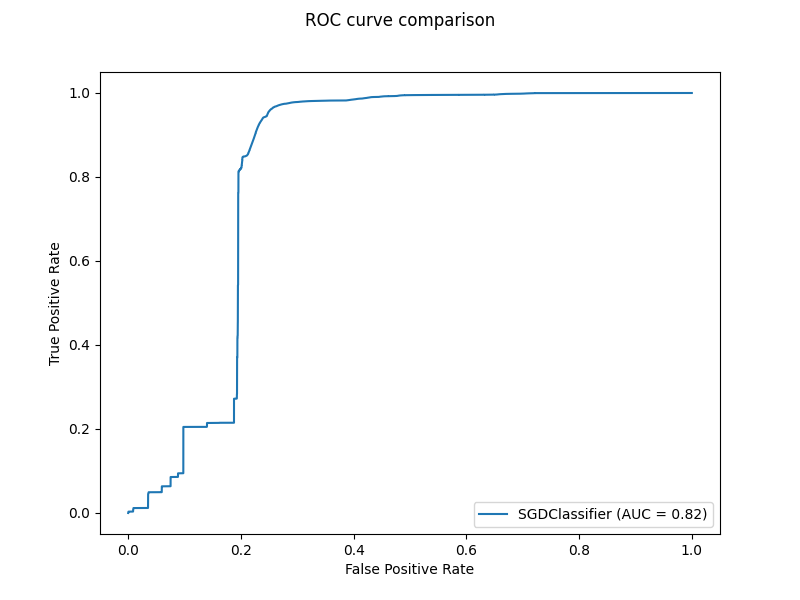
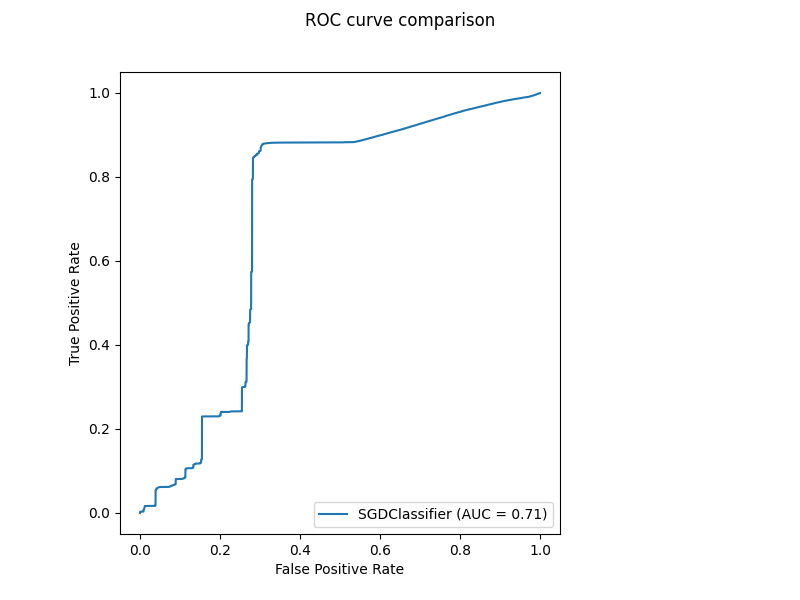
Commented other files

diff --git a/model-improvements/SGDredux.py b/model-improvements/SGDredux.py
@@ -16,10 +16,9 @@ import matplotlib.pyplot as plt
 import sqlite3 as sql
 import numpy as np
 import gc
-# Training Section:
+## Training Section:
 
-# create connection to training database. Adjust path below
-# connection = sql.connect('train.db')
+# create connection to training database. TODO Adjust path below:
 connection = sql.connect('/mnt/c/Users/mante/Downloads/train.db')
 
 # create cursor
@@ -35,6 +34,7 @@ included_columns = ['Src_ip_A', 'Src_ip_B', 'Src_ip_C', 'Src_ip_D', 'Source_Port
                     'Synack_time', 'Ack_time', 'Is_sm_ips_ports', 'Ct_state_ttl', 'Ct_http_f', 'login_ftp', 'Ct_ftp_cmd',
                     'Ct_srv_src', 'Ct_srv_dest', 'Ct_dest_ltm', 'Ct_str_ltm', 'Ct_src_dport_ltm', 'Ct_dest_sport_ltm',
                     'Ct_dest_src_ltm', 'Dest_ip_A', 'Dest_ip_B', 'Dest_ip_C', 'Dest_ip_D', 'Dest_Port']
+# Modified included_columns as per feature extraction methods - TODO: Uncomment and adjust as needed with above
 # included_columns = ['Src_ip_D', 'Source_Port', 'Protocol_feature',
 #                     'State_feature', 'Row_dur', 'src_bytes', 'dest_bytes', 'Src_ttl', 'Dest_ttl', 'Src_loss', 'Dest_loss',
 #                     'Src_bps', 'Dest_bps', 'Src_pkt_ct', 'Dst_pkt_ct', 
@@ -62,15 +62,14 @@ execute = f"SELECT Flag FROM train_1;"
 cursor.execute(execute)
 
 result_label = cursor.fetchall()
-
 print("Training label selection success")
+
 # Convert results to arrays
 # this array is a 2D array if sample number and feature, on sprint planning this is 3.d.i
 features_train = np.array(result_features, dtype='float32')
 
 # this array is a 1d array of labels, on sprint planning this is 3.d.ii
 labels_train = np.array(result_label, dtype='float32')
-
 labels_train = labels_train.flatten()
 
 print("Features and labels successfully converted to numpy arrays")
@@ -79,7 +78,7 @@ print("Features and labels successfully converted to numpy arrays")
 cursor.close()
 connection.close()
 
-# TESTING
+## TESTING Section
 
 # now reopen the connection and get features and labels for testing data
 # create connection to testing database. Adjust path below
@@ -90,134 +89,65 @@ cursor = connection.cursor()
 execute = f"SELECT {SQL_select} FROM test_1;"
 cursor.execute(execute)
 
+# get the result of that execute. this will be the 2D array with every column except flag
 result_features = cursor.fetchall()
-
 features_test = np.array(result_features, dtype='float32')
 
-
+# this array is a 1d array of labels, on sprint planning this is 3.d.ii but for testing
 execute = f"SELECT Flag FROM test_1;"
 cursor.execute(execute)
 
+# fetchall, cast to array
 result_label = cursor.fetchall()
-
-
 labels_test = np.array(result_label, dtype='float32')
-
 labels_test = labels_test.flatten()
 
-## INSERTED HERE
-# ATTEMPT 1: Variance Thresholding
+## ATTEMPT 1: Variance Thresholding
 
-# # Apply Variance Thresholding to select features
-# threshold = 0.8  # Define the threshold here
-# selector = VarianceThreshold(threshold=threshold)
-# selected_features = selector.fit_transform(features_train)
-# print(selected_features.shape)
+## Apply Variance Thresholding to select features - TODO: Comment lines 108-126 to run others
+threshold = 0.3  # Define the threshold here
+selector = VarianceThreshold(threshold=threshold)
+selected_features = selector.fit_transform(features_train)
+print(selected_features.shape)
 
-# # Creates a boolean mask of selected features
-# selected_mask = selector.get_support()
+# Creates a boolean mask of selected features
+selected_mask = selector.get_support()
 
-# # Filter original column names based on the mask
-# selected_column_names = [col_name for idx, col_name in enumerate(included_columns) if selected_mask[idx]]
+# Filter original column names based on the mask
+selected_column_names = [col_name for idx, col_name in enumerate(included_columns) if selected_mask[idx]]
 
-# # Print out the selected column names
-# print("Selected features (column names):")
-# for col_name in selected_column_names:
-#     print(col_name)
+# Print out the selected column names
+print("Selected features (column names):")
+for col_name in selected_column_names:
+    print(col_name)
 
-# # # Apply the selected features to your data
-# selected_features_train = selector.transform(features_train)
-# selected_features_test = selector.transform(features_test)
+# # Apply the selected features to your data
+selected_features_train = selector.transform(features_train)
+selected_features_test = selector.transform(features_test)
 
-# ATTEMPT 2: Information Gain
+## ATTEMPT 2: Information Gain - uncomment to run - TODO: Uncomment lines 128-132 to run attempt 2 (comment lines 108-126)
 # importances = mutual_info_classif(features_train, labels_train)
 # feat_importances = pd.Series(importances, included_columns[0:len(included_columns)])
 # feat_importances.plot(kind='barh', color='blue')
 # plt.show()
 
-# ATTEMPT 3: Exhaustive Feature Selection
-efs = EFS(SGDClassifier(shuffle = False, max_iter = 1000000), min_features = 1, max_features = 53, scoring = 'roc_auc', print_progress = True, cv = 2)
-efs.fit(features_train, labels_train.ravel())
+## ATTEMPT 3: Exhaustive Feature Selection - TODO uncomment lines 134-EOF to see logic (WARNING: Do not run- takes too long)
+# print("Exhaustive Feature Selection commencing...")
+# efs = EFS(SGDClassifier(shuffle = False, max_iter = 1000000000), min_features = 1, max_features = 53, scoring = 'roc_auc', print_progress = True, cv = 2)
+# efs.fit(features_train, labels_train.ravel())
 
-print('Best roc_auc: %.2f' % efs.best_score_)
-print('Best subset (indices):', efs.best_idx_)
-print('Best subset (corresponding names):', efs.best_feature_names_)
-print('Mask for features selected:', efs.best_mask_)
-print('Total number of features:', efs.n_features_in_)
-print('Total number of subsets:', efs.total_features_)
-print('Total number of features in subsets:', efs.subset_dim_)
-print('Total number of subsets that were checked:', efs.total_feature_names_)
-print('Total number of features that were checked:', efs.total_feature_names_)
-print('Total time taken to perform exhaustive search:', efs.total_time_)
-print('Total time taken to perform exhaustive search (formatted):', efs.total_time_formatted_)
-print('Total time taken to perform exhaustive search (seconds):', efs.total_time_secs_)
-print('Total time taken to perform exhaustive search (minutes):', efs.total_time_mins_)
-
-
-
-
-# # uncomment (now 160) - end to train and predict
-# # classifier object
-# clf = SGDClassifier(shuffle = False, max_iter = 1000000) # adjusting shuffle parameter
-
-# # print(features_train[0,:])
-# # print(labels_train)
-
-
-# # Train the data
-# print("Training...")
-# clf.fit(features_train, labels_train.ravel()) 
-# print("Training success")
-
-# # Debug statements
-# # print(features_train.dtype)
-# # print(features_test.dtype)
-
-# print("\n")
-# # make predictions
-# labels_pred = clf.predict(features_test)
-
-# # make confusion matrix
-# print("Confusion matrix: ")
-# print(confusion_matrix(labels_test, labels_pred))
-
-# # classification report
-# cr = classification_report(labels_test, labels_pred)
-# print("Classification report: ")
-# print(cr)
-
-# clf_roc = RocCurveDisplay.from_estimator(clf, features_test, labels_test)
-# clf_roc.plot()
-# clf_roc.figure_.suptitle("ROC curve comparison")
-# # clf_roc.figure_.subplots_adjust(left=0.15, right=0.7)
-# clf_roc.figure_.set_size_inches(8, 6)
-# clf_roc.ax_.set_xlabel("False Positive Rate")
-# clf_roc.ax_.set_ylabel("True Positive Rate")
-# clf_roc.ax_.legend(loc="lower right")
-# clf_roc.figure_.savefig("ROC_curve_comparison.png")
-# print("ROC curve saved to ROC_curve_comparison.png")
-
-# # # DEBUG labels_pred
-
-# # Debug statements
-# # print(labels_pred.shape)
-# # print(labels_test.shape)
-
-# # # get accuracy
-# accuracy = clf.score(features_test, labels_test)
-# accuracy_pct = round((accuracy * 100), 4)
-# # # # get histogram of predictions
-# # print("Histogram of predictions: ")
-# # np.histogram(labels_pred)
-# # # View the histogram
-# # plt.show()
-
-# # false positive rate
-# # print("False positive rate: ", end="")
-# # run 10 epochs ??
-# # for i in range(10):
-# #     clf.partial_fit(features_train, labels_train, classes=np.unique(labels_train))
-
-# # # print the accuracy
-# print(f"Predicted malicious packets with {accuracy_pct}% accuracy")
-
+# print('Best roc_auc: %.2f' % efs.best_score_)
+# print('Best subset (indices):', efs.best_idx_)
+# print('Best subset (corresponding names):', efs.best_feature_names_)
+# print('Mask for features selected:', efs.best_mask_)
+# print('Total number of features:', efs.n_features_in_)
+# print('Total number of subsets:', efs.total_features_)
+# print('Total number of features in subsets:', efs.subset_dim_)
+# print('Total number of subsets that were checked:', efs.total_feature_names_)
+# print('Total number of features that were checked:', efs.total_feature_names_)
+# print('Total time taken to perform exhaustive search:', efs.total_time_)
+# print('Total time taken to perform exhaustive search (formatted):', efs.total_time_formatted_)
+# print('Total time taken to perform exhaustive search (seconds):', efs.total_time_secs_)
+# print('Total time taken to perform exhaustive search (minutes):', efs.total_time_mins_)
+# print('Total time taken to perform exhaustive search (hours):', efs.total_time_hours_)
+# print('Total time taken to perform exhaustive search (days):', efs.total_time_days_) # This is why we couldn't complete 

diff --git a/model-improvements/SGDepochs.py b/model-improvements/SGDepochs.py
@@ -11,10 +11,11 @@ from sklearn.metrics import confusion_matrix
 import sqlite3 as sql
 import numpy as np
 import gc
-# Training Section:
+## Training Section:
 
 # create connection to training database. Adjust path as needed
 # connection = sql.connect('train.db')
+# TODO: Adjust file path below
 connection = sql.connect('/mnt/c/Users/mante/Downloads/train.db')
 
 # create cursor
@@ -63,11 +64,11 @@ print("Features and labels successfully converted to numpy arrays")
 cursor.close()
 connection.close()
 
-# TESTING
+## TESTING Section
 
 # now reopen the connection and get features and labels for testing data
 # create connection
-# connection = sql.connect('test.db')
+# TODO: Adjust file path below
 connection = sql.connect('/mnt/c/Users/mante/Downloads/test.db')
 cursor = connection.cursor()
 
@@ -86,23 +87,14 @@ labels_test = np.array(result_label, dtype='float32')
 labels_test = labels_test.flatten()
 
 # learn machine
-clf = SGDClassifier(shuffle = False) # adjusting shuffle parameter
-
-# print(features_train[0,:])
-# print(labels_train)
+clf = SGDClassifier(shuffle = False) # adjusting shuffle parameter to preserve order
 
 # Train the data
 print("Training...")
-# clf.fit(features_train, labels_train.ravel()) 
 for i in range(10):
     clf.partial_fit(features_train, labels_train, classes=np.unique(labels_train))
     print(f"Epoch {i+1} complete")
-
 print("Training success")
-
-# Debug statements
-# print(features_train.dtype)
-# print(features_test.dtype)
 
 print("\n")
 # make predictions
@@ -128,19 +120,9 @@ clf_roc.ax_.legend(loc="lower right")
 clf_roc.figure_.savefig("ROC_curve_comparison.png")
 print("ROC curve saved to ROC_curve_comparison.png")
 
-
-# Debug statements
-# print(labels_pred.shape)
-# print(labels_test.shape)
-
-# # get accuracy
+## Report accuracy
 accuracy = clf.score(features_test, labels_test)
 accuracy_pct = round((accuracy * 100), 4)
-# # # get histogram of predictions
-# print("Histogram of predictions: ")
-# np.histogram(labels_pred)
-# # View the histogram
-# plt.show()
 
-# # print the accuracy
+# print the accuracy
 print(f"Predicted malicious packets with {accuracy_pct}% accuracy")

diff --git a/SGDclassifier.py b/SGDclassifier.py
@@ -15,7 +15,8 @@ import numpy as np
 import gc
 ### Training Section:
 
-# create connection to training database. Adjust path below: 
+# create connection to training database. 
+# TODO Adjust path below: 
 # connection = sql.connect('train.db')
 connection = sql.connect('/mnt/c/Users/mante/Downloads/train.db')
 
@@ -66,8 +67,8 @@ cursor.close()
 connection.close()
 
 ### Testing Section
-# now reopen the connection and get features and labels for testing data
-# connection = sql.connect('test.db')
+# now reopen the connection and get features and labels for testing data 
+# TODO: Adjust path below
 connection = sql.connect('/mnt/c/Users/mante/Downloads/test.db')
 cursor = connection.cursor()
 
